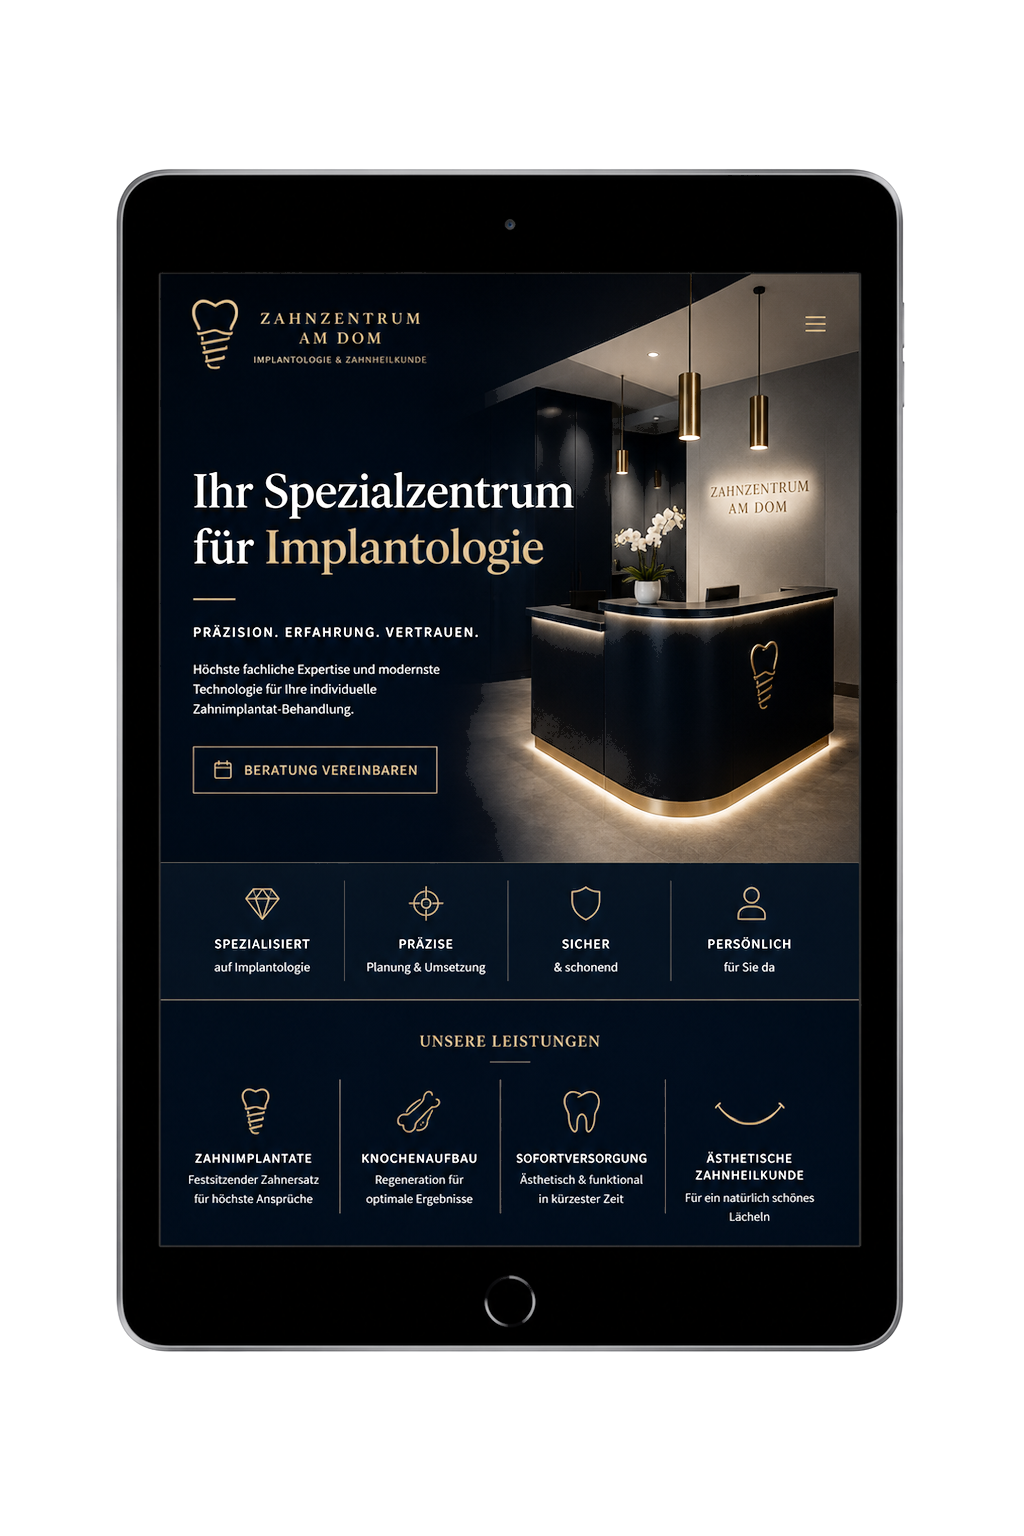
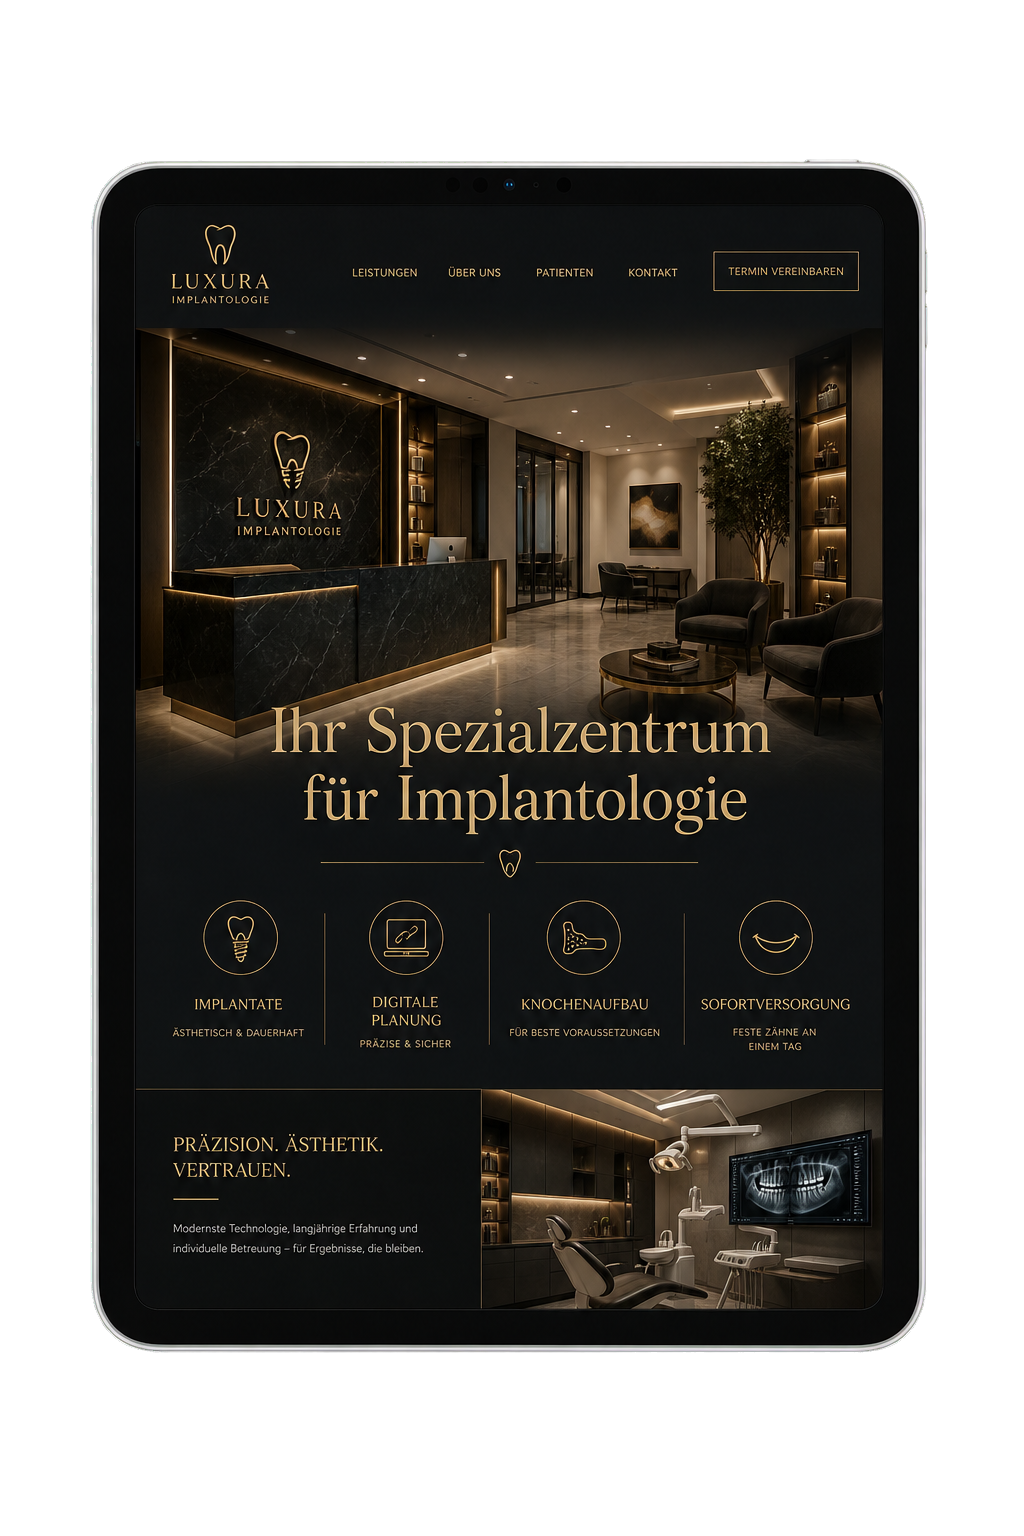
feat: add 3-device hero, team section, testimonials, case slider + new iPad mockups
- Hero: laptop + tablet + phone device layout
- Team: 6 members with Unser Team heading
- Testimonials: updated 4 attribution names/locations
- Beispiele: autoplay 3-slide case slider with benefits
- iPad images: AI-generated with transparent backgrounds

Changed region(s): [[0.0625, 0.0938, 0.9062, 0.9062], [0.5312, 0.1562, 0.5625, 0.1875]]

diff --git a/index.html b/index.html
@@ -97,6 +97,36 @@
     .sw-team-placeholder{background:var(--green-soft);display:block;}
     .sw-team-card strong{font-size:15px;font-weight:700;color:var(--ink);display:block;}
     .sw-team-card span{font-size:13px;color:var(--muted);}
+    /* ===== HERO TABLET DEVICE ===== */
+    .device-tablet{position:absolute;right:-6%;bottom:-10%;width:36%;border:8px solid #0b1220;border-radius:20px;background:#0b1220;box-shadow:0 30px 54px -22px rgba(2,6,23,.55);z-index:2;}
+    .device-tablet .screen{display:block;width:100%;height:auto;border-radius:12px;}
+    @media(max-width:560px){.device-tablet{right:-4%;width:38%;}}
+    /* ===== CASE SLIDER ===== */
+    .case-slider{position:relative;overflow:hidden;border-radius:24px;background:var(--card);border:1px solid var(--line);}
+    .case-track{display:flex;transition:transform .5s cubic-bezier(.22,1,.36,1);}
+    .case-slide{min-width:100%;display:grid;grid-template-columns:1fr 1fr;gap:48px;align-items:center;padding:48px;}
+    @media(max-width:820px){.case-slide{grid-template-columns:1fr;padding:32px 24px;}}
+    .case-slide-img{position:relative;aspect-ratio:4/3;overflow:visible;}
+    .case-slide-img .device-laptop{max-width:88%;}
+    .case-slide-img .device-phone{left:auto;right:-4%;bottom:-8%;width:28%;}
+    .case-slide-body{display:flex;flex-direction:column;gap:18px;}
+    .case-slide-body h3{font-size:22px;font-weight:700;color:var(--ink);margin:0;}
+    .case-detail{display:flex;gap:14px;align-items:flex-start;}
+    .case-detail-icon{width:40px;height:40px;flex-shrink:0;display:flex;align-items:center;justify-content:center;background:var(--green-soft);border-radius:12px;color:var(--green);}
+    .case-detail-icon svg{width:20px;height:20px;}
+    .case-detail div b{display:block;font-size:14px;font-weight:700;color:var(--ink);margin-bottom:2px;}
+    .case-detail div p{font-size:13.5px;line-height:1.6;color:var(--ink-2);margin:0;}
+    .case-dots{display:flex;justify-content:center;gap:10px;margin-top:32px;}
+    .case-dot{width:10px;height:10px;border-radius:50%;background:var(--line);border:none;cursor:pointer;transition:background .3s,transform .3s;padding:0;}
+    .case-dot.active{background:var(--green);transform:scale(1.25);}
+    .case-benefits{display:grid;grid-template-columns:repeat(3,1fr);gap:20px;margin-top:36px;}
+    @media(max-width:680px){.case-benefits{grid-template-columns:1fr;}}
+    .case-benefit{display:flex;align-items:flex-start;gap:14px;padding:20px;background:var(--card);border:1px solid var(--line);border-radius:16px;}
+    .case-benefit-icon{width:44px;height:44px;flex-shrink:0;display:flex;align-items:center;justify-content:center;background:var(--green-soft);border-radius:12px;color:var(--green);}
+    .case-benefit-icon svg{width:22px;height:22px;}
+    .case-benefit div h4{font-size:15px;font-weight:700;color:var(--ink);margin:0 0 4px;}
+    .case-benefit div p{font-size:13px;color:var(--muted);margin:0;line-height:1.5;}
+    .case-note{text-align:center;font-size:13px;color:var(--muted);margin-top:24px;font-style:italic;}
 </style>
   <meta name="robots" content="index, follow, max-image-preview:large, max-snippet:-1, max-video-preview:-1" />
   <script type="application/ld+json">
@@ -256,6 +286,7 @@
             <div class="mockup-wrap">
               <div class="mockup" aria-label="Beispiel einer Praxis-Website">
                 <div class="device-laptop"><img class="screen" src="assets/shot-laptop.png" alt="Beispiel Praxis-Website auf dem Laptop" width="1600" height="1000" loading="lazy" decoding="async" /></div>
+                <div class="device-tablet"><img class="screen" src="assets/shot-laptop.png" alt="Beispiel Praxis-Website auf dem Tablet" width="1600" height="1000" loading="lazy" decoding="async" /></div>
                 <div class="device-phone"><img class="screen" src="assets/shot-phone.png" alt="Beispiel Praxis-Website auf dem Smartphone" width="430" height="932" loading="lazy" decoding="async" /></div>
               </div>
             </div>
@@ -455,47 +486,131 @@
       </div>
     </section>
 
-    <!-- ============ CASE / BEISPIEL ============ -->
+    <!-- ============ CASE / BEISPIEL (SLIDER) ============ -->
     <section class="section white-bg" id="beispiel" data-screen-label="07 Beispiel">
       <div class="container">
         <div class="section-head">
-          <span class="eyebrow reveal">Beispiele</span>
-          <h2 class="h-section reveal d1">Wie eine starke Website Zahnarztpraxen unterstützt</h2>
+          <span class="eyebrow reveal">Fiktives Beispiel</span>
+          <h2 class="h-section reveal d1">Wie eine moderne Website Zahnarztpraxen unterstützt</h2>
+          <p class="lead reveal d2">Praxisnahes Konzeptbeispiel &#8212; mit klarer Positionierung, schöner Website und realistischer Struktur.</p>
         </div>
 
-        <div class="case-card reveal d2">
-          <div class="case-head">
-            <div>
-              <span class="case-tag">Beispiel · Schwerpunkt Implantologie</span>
-              <h3>Zahnarztpraxis mit Schwerpunkt Implantologie</h3>
-              <div class="case-row">
-                <p><b>Ausgangssituation:</b> Website seit mehreren Jahren unverändert, kaum Struktur — wichtige Leistungen gingen im Gesamtbild unter.</p>
-                <p><b>Ziel:</b> Moderner Auftritt, klare Darstellung der Schwerpunkte und Entlastung des Teams bei Standardfragen.</p>
+        <div class="case-slider reveal d2" id="caseSlider">
+          <div class="case-track" id="caseTrack">
+
+            <!-- Slide 1: Implantologie -->
+            <div class="case-slide">
+              <div class="case-slide-img">
+                <div class="device-laptop"><img class="screen" src="assets/shot-laptop.png" alt="Implantologie Praxis-Website" width="1600" height="1000" loading="lazy" decoding="async" /></div>
+                <div class="device-phone"><img class="screen" src="assets/shot-phone.png" alt="Implantologie mobil" width="430" height="932" loading="lazy" decoding="async" /></div>
+              </div>
+              <div class="case-slide-body">
+                <h3>Schwerpunkt Implantologie</h3>
+                <div class="case-detail">
+                  <div class="case-detail-icon"><svg viewBox="0 0 24 24" fill="none" stroke="currentColor" stroke-width="2" stroke-linecap="round" stroke-linejoin="round"><circle cx="11" cy="11" r="8"/><path d="m21 21-4.3-4.3"/></svg></div>
+                  <div><b>Ausgangssituation:</b><p>Die bisherige Website wirkte veraltet, wichtige Leistungen wurden nicht klar dargestellt und häufige Rückfragen belasteten das Team.</p></div>
+                </div>
+                <div class="case-detail">
+                  <div class="case-detail-icon"><svg viewBox="0 0 24 24" fill="none" stroke="currentColor" stroke-width="2" stroke-linecap="round" stroke-linejoin="round"><circle cx="12" cy="12" r="10"/><circle cx="12" cy="12" r="6"/><circle cx="12" cy="12" r="2"/></svg></div>
+                  <div><b>Ziel:</b><p>Ein moderner Auftritt mit klarem Schwerpunkt, verständlicher Struktur und spürbarer Entlastung im Praxisalltag.</p></div>
+                </div>
+                <div class="case-detail">
+                  <div class="case-detail-icon"><svg viewBox="0 0 24 24" fill="none" stroke="currentColor" stroke-width="2" stroke-linecap="round" stroke-linejoin="round"><rect x="3" y="3" width="18" height="18" rx="2"/><path d="M3 9h18"/><path d="M9 21V9"/></svg></div>
+                  <div><b>Umsetzung:</b><p>Neue Startseite, übersichtliche Unterseiten für alle Leistungen, klare Patientenführung und leicht auffindbare Kontaktmöglichkeiten.</p></div>
+                </div>
+                <div class="case-detail">
+                  <div class="case-detail-icon"><svg viewBox="0 0 24 24" fill="none" stroke="currentColor" stroke-width="2" stroke-linecap="round" stroke-linejoin="round"><path d="M22 11.08V12a10 10 0 1 1-5.93-9.14"/><polyline points="22 4 12 14.01 9 11.01"/></svg></div>
+                  <div><b>Ergebnis:</b><p>Stärkerer professioneller Eindruck, bessere Kommunikation der Leistungen und weniger wiederkehrende Rückfragen.</p></div>
+                </div>
+                <a href="#kontakt" class="btn" style="align-self:flex-start;margin-top:8px;"><span class="btn-label">Erstgespräch sichern</span>
+                  <svg viewBox="0 0 24 24" fill="none" stroke="currentColor" stroke-width="2.2" stroke-linecap="round" stroke-linejoin="round"><path d="M5 12h14M13 5l7 7-7 7"></path></svg>
+                </a>
               </div>
             </div>
-            <div class="case-row">
-              <p><b>Umsetzung mit Seitenwerk.de:</b> Neue Startseite, Unterseiten für die Hauptleistungen, strukturierte Infos zu Abläufen, Anfahrt und Besonderheiten.</p>
-              <p><b>Ergebnis:</b> Deutlich professionellerer Außenauftritt, mehr passende Anfragen für die gewünschten Schwerpunkte und weniger Rückfragen am Telefon.</p>
-              <a href="#kontakt" class="btn mt-cta"><span class="btn-label">Erstgespräch sichern</span>
-                <svg viewBox="0 0 24 24" fill="none" stroke="currentColor" stroke-width="2.2" stroke-linecap="round" stroke-linejoin="round"><path d="M5 12h14M13 5l7 7-7 7"></path></svg>
-              </a>
+
+            <!-- Slide 2: Prophylaxe -->
+            <div class="case-slide">
+              <div class="case-slide-img">
+                <div class="device-laptop"><img class="screen" src="assets/shot-laptop.png" alt="Prophylaxe Praxis-Website" width="1600" height="1000" loading="lazy" decoding="async" /></div>
+                <div class="device-phone"><img class="screen" src="assets/shot-phone.png" alt="Prophylaxe mobil" width="430" height="932" loading="lazy" decoding="async" /></div>
+              </div>
+              <div class="case-slide-body">
+                <h3>Schwerpunkt Prophylaxe</h3>
+                <div class="case-detail">
+                  <div class="case-detail-icon"><svg viewBox="0 0 24 24" fill="none" stroke="currentColor" stroke-width="2" stroke-linecap="round" stroke-linejoin="round"><circle cx="11" cy="11" r="8"/><path d="m21 21-4.3-4.3"/></svg></div>
+                  <div><b>Ausgangssituation:</b><p>Prophylaxe-Leistungen waren online kaum sichtbar — Patienten wussten nicht, welche Angebote die Praxis bereithält.</p></div>
+                </div>
+                <div class="case-detail">
+                  <div class="case-detail-icon"><svg viewBox="0 0 24 24" fill="none" stroke="currentColor" stroke-width="2" stroke-linecap="round" stroke-linejoin="round"><circle cx="12" cy="12" r="10"/><circle cx="12" cy="12" r="6"/><circle cx="12" cy="12" r="2"/></svg></div>
+                  <div><b>Ziel:</b><p>Prophylaxe als eigenständigen Schwerpunkt positionieren und gezielt Patienten ansprechen, die Wert auf Vorsorge legen.</p></div>
+                </div>
+                <div class="case-detail">
+                  <div class="case-detail-icon"><svg viewBox="0 0 24 24" fill="none" stroke="currentColor" stroke-width="2" stroke-linecap="round" stroke-linejoin="round"><rect x="3" y="3" width="18" height="18" rx="2"/><path d="M3 9h18"/><path d="M9 21V9"/></svg></div>
+                  <div><b>Umsetzung:</b><p>Eigene Unterseite für Prophylaxe, klare Patienteninformationen zu Ablauf und Kosten, Online-Terminbuchung für Vorsorge.</p></div>
+                </div>
+                <div class="case-detail">
+                  <div class="case-detail-icon"><svg viewBox="0 0 24 24" fill="none" stroke="currentColor" stroke-width="2" stroke-linecap="round" stroke-linejoin="round"><path d="M22 11.08V12a10 10 0 1 1-5.93-9.14"/><polyline points="22 4 12 14.01 9 11.01"/></svg></div>
+                  <div><b>Ergebnis:</b><p>Mehr gezielte Anfragen für Prophylaxe-Termine, weniger Erklärungsbedarf am Telefon und bessere Auslastung.</p></div>
+                </div>
+                <a href="#kontakt" class="btn" style="align-self:flex-start;margin-top:8px;"><span class="btn-label">Erstgespräch sichern</span>
+                  <svg viewBox="0 0 24 24" fill="none" stroke="currentColor" stroke-width="2.2" stroke-linecap="round" stroke-linejoin="round"><path d="M5 12h14M13 5l7 7-7 7"></path></svg>
+                </a>
+              </div>
             </div>
+
+            <!-- Slide 3: Ästhetische Zahnmedizin -->
+            <div class="case-slide">
+              <div class="case-slide-img">
+                <div class="device-laptop"><img class="screen" src="assets/shot-laptop.png" alt="Ästhetik Praxis-Website" width="1600" height="1000" loading="lazy" decoding="async" /></div>
+                <div class="device-phone"><img class="screen" src="assets/shot-phone.png" alt="Ästhetik mobil" width="430" height="932" loading="lazy" decoding="async" /></div>
+              </div>
+              <div class="case-slide-body">
+                <h3>Ästhetische Zahnmedizin</h3>
+                <div class="case-detail">
+                  <div class="case-detail-icon"><svg viewBox="0 0 24 24" fill="none" stroke="currentColor" stroke-width="2" stroke-linecap="round" stroke-linejoin="round"><circle cx="11" cy="11" r="8"/><path d="m21 21-4.3-4.3"/></svg></div>
+                  <div><b>Ausgangssituation:</b><p>Ästhetische Leistungen gingen im Gesamtangebot unter — die Praxis wurde nicht als Premium-Anbieter wahrgenommen.</p></div>
+                </div>
+                <div class="case-detail">
+                  <div class="case-detail-icon"><svg viewBox="0 0 24 24" fill="none" stroke="currentColor" stroke-width="2" stroke-linecap="round" stroke-linejoin="round"><circle cx="12" cy="12" r="10"/><circle cx="12" cy="12" r="6"/><circle cx="12" cy="12" r="2"/></svg></div>
+                  <div><b>Ziel:</b><p>Premium-Positionierung im Bereich ästhetische Zahnmedizin mit visuellem Anspruch und klarer Patientenansprache.</p></div>
+                </div>
+                <div class="case-detail">
+                  <div class="case-detail-icon"><svg viewBox="0 0 24 24" fill="none" stroke="currentColor" stroke-width="2" stroke-linecap="round" stroke-linejoin="round"><rect x="3" y="3" width="18" height="18" rx="2"/><path d="M3 9h18"/><path d="M9 21V9"/></svg></div>
+                  <div><b>Umsetzung:</b><p>Visuell hochwertiges Design, Vorher-Nachher-Bildsprache, eigene Seiten für Veneers, Bleaching und Smile-Design.</p></div>
+                </div>
+                <div class="case-detail">
+                  <div class="case-detail-icon"><svg viewBox="0 0 24 24" fill="none" stroke="currentColor" stroke-width="2" stroke-linecap="round" stroke-linejoin="round"><path d="M22 11.08V12a10 10 0 1 1-5.93-9.14"/><polyline points="22 4 12 14.01 9 11.01"/></svg></div>
+                  <div><b>Ergebnis:</b><p>Deutlich höhere Wahrnehmung als Premium-Anbieter, mehr Anfragen für hochwertige ästhetische Behandlungen.</p></div>
+                </div>
+                <a href="#kontakt" class="btn" style="align-self:flex-start;margin-top:8px;"><span class="btn-label">Erstgespräch sichern</span>
+                  <svg viewBox="0 0 24 24" fill="none" stroke="currentColor" stroke-width="2.2" stroke-linecap="round" stroke-linejoin="round"><path d="M5 12h14M13 5l7 7-7 7"></path></svg>
+                </a>
+              </div>
+            </div>
+
           </div>
-          <div class="case-stats">
-            <div class="case-stat">
-              <div class="case-stat-v">+64%</div>
-              <div class="case-stat-l">Passende Anfragen</div>
-            </div>
-            <div class="case-stat">
-              <div class="case-stat-v">−42%</div>
-              <div class="case-stat-l">Telefon-Rückfragen</div>
-            </div>
-            <div class="case-stat">
-              <div class="case-stat-v">4,9★</div>
-              <div class="case-stat-l">Patienten-Bewertung</div>
-            </div>
+          <div class="case-dots" id="caseDots">
+            <button class="case-dot active" aria-label="Slide 1"></button>
+            <button class="case-dot" aria-label="Slide 2"></button>
+            <button class="case-dot" aria-label="Slide 3"></button>
           </div>
         </div>
+
+        <div class="case-benefits reveal d3">
+          <div class="case-benefit">
+            <div class="case-benefit-icon"><svg viewBox="0 0 24 24" fill="none" stroke="currentColor" stroke-width="2" stroke-linecap="round" stroke-linejoin="round"><circle cx="12" cy="12" r="10"/><circle cx="12" cy="12" r="6"/><circle cx="12" cy="12" r="2"/></svg></div>
+            <div><h4>Klarere Positionierung</h4><p>Ihr Leistungsspektrum und Spezialisierungen sind auf den ersten Blick verständlich.</p></div>
+          </div>
+          <div class="case-benefit">
+            <div class="case-benefit-icon"><svg viewBox="0 0 24 24" fill="none" stroke="currentColor" stroke-width="2" stroke-linecap="round" stroke-linejoin="round"><path d="M21 15a2 2 0 0 1-2 2H7l-4 4V5a2 2 0 0 1 2-2h14a2 2 0 0 1 2 2z"/></svg></div>
+            <div><h4>Weniger Standardfragen</h4><p>Patienten finden Antworten bereits online — das entlastet Ihr Team spürbar.</p></div>
+          </div>
+          <div class="case-benefit">
+            <div class="case-benefit-icon"><svg viewBox="0 0 24 24" fill="none" stroke="currentColor" stroke-width="2" stroke-linecap="round" stroke-linejoin="round"><path d="M22 11.08V12a10 10 0 1 1-5.93-9.14"/><polyline points="22 4 12 14.01 9 11.01"/></svg></div>
+            <div><h4>Professioneller Außenauftritt</h4><p>Ein moderner Webauftritt stärkt Vertrauen und Ihre Praxis als Marke.</p></div>
+          </div>
+        </div>
+        <p class="case-note reveal d4">Konzeptionelles Mockup &#8212; keine reale Kundenreferenz.</p>
       </div>
     </section>
 
@@ -580,6 +695,9 @@
     <!-- ============ TEAM ============ -->
     <section class="section" id="team" style="padding-top:0;padding-bottom:56px;" data-screen-label="08c Team">
       <div class="container">
+        <div class="section-head" style="margin-bottom:36px;">
+          <h2 class="h-section reveal d1">Unser Team</h2>
+        </div>
         <div class="sw-team-grid">
           <div class="sw-team-card">
             <img src="assets/founder.png" alt="Thomas Stübinger" width="160" height="160" loading="lazy" decoding="async" class="sw-team-photo" />
@@ -589,12 +707,27 @@
           <div class="sw-team-card">
             <img src="https://cdn.prod.website-files.com/649413ec23c5269e2fb03294/658183b74d341b8e9974a1a5_Marco%20Niedermeier.png" alt="Marco Niedermeier" width="160" height="160" loading="lazy" decoding="async" class="sw-team-photo" />
             <strong>Marco Niedermeier</strong>
-            <span>Account Manager</span>
+            <span>Consultant</span>
           </div>
           <div class="sw-team-card">
             <div class="sw-team-photo sw-team-placeholder"></div>
             <strong>Hoa</strong>
-            <span>[Rolle]</span>
+            <span>Consultant</span>
+          </div>
+          <div class="sw-team-card">
+            <div class="sw-team-photo sw-team-placeholder"></div>
+            <strong>John</strong>
+            <span>Developer</span>
+          </div>
+          <div class="sw-team-card">
+            <div class="sw-team-photo sw-team-placeholder"></div>
+            <strong>Manuel</strong>
+            <span>Developer</span>
+          </div>
+          <div class="sw-team-card">
+            <div class="sw-team-photo sw-team-placeholder"></div>
+            <strong>Anna</strong>
+            <span>Designer</span>
           </div>
         </div>
       </div>
@@ -613,7 +746,7 @@
             <blockquote class="testi-quote">&#8222;Seit dem Launch haben wir deutlich mehr qualifizierte Anfragen. Thomas hat unsere Praxis wirklich verstanden und eine Website gebaut, die Vertrauen weckt &#8212; noch bevor ein Patient den H&#246;rer abnimmt.&#8220;</blockquote>
                         <div class="testi-person">
               <div style="width:46px;height:46px;border-radius:50%;background:var(--line);flex-shrink:0;"></div>
-              <div><strong>Zahnarzt</strong><span>München</span></div>
+              <div><strong>Praxisinhaber</strong><span>München</span></div>
             </div>
           </article>
           <article class="testi-card reveal d2">
@@ -621,7 +754,7 @@
             <blockquote class="testi-quote">&#8222;Endlich eine Website, die wirklich zu unserem Anspruch passt. Schnelle Umsetzung, tolle Texte und ein Design, f&#252;r das wir t&#228;glich Komplimente bekommen.&#8220;</blockquote>
                         <div class="testi-person">
               <div style="width:46px;height:46px;border-radius:50%;background:var(--line);flex-shrink:0;"></div>
-              <div><strong>Zahnspezialist</strong><span>Hamburg</span></div>
+              <div><strong>Zahnärztliche Praxisleitung</strong><span>Süddeutschland</span></div>
             </div>
           </article>
           <article class="testi-card reveal d3">
@@ -629,7 +762,7 @@
             <blockquote class="testi-quote">&#8222;Von der ersten Beratung bis zum Go-live war alles reibungslos. Innerhalb von 3 Wochen online &#8212; genau so, wie ich es mir vorgestellt habe.&#8220;</blockquote>
                         <div class="testi-person">
               <div style="width:46px;height:46px;border-radius:50%;background:var(--line);flex-shrink:0;"></div>
-              <div><strong>Dental Zentrum</strong><span>Nürnberg</span></div>
+              <div><strong>Dentalzentrum</strong><span>Niedersachsen</span></div>
             </div>
           </article>
           <article class="testi-card reveal d4">
@@ -637,7 +770,7 @@
             <blockquote class="testi-quote">&#8222;Thomas hat mitgedacht, mitgemacht und am Ende ein Ergebnis geliefert, das uns begeistert. Unsere Patienten sprechen uns aktiv auf die neue Website an.&#8220;</blockquote>
                         <div class="testi-person">
               <div style="width:46px;height:46px;border-radius:50%;background:var(--line);flex-shrink:0;"></div>
-              <div><strong>Orthopäde</strong><span>Nienburg</span></div>
+              <div><strong>Kieferorthopädische Praxis</strong><span>Großraum Hamburg</span></div>
             </div>
           </article>
         </div>
@@ -777,6 +910,21 @@
     const revs = [...document.querySelectorAll('.reveal')];
     revs.forEach(el => io.observe(el));
     requestAnimationFrame(() => { revs.forEach(el => { if (el.getBoundingClientRect().top < innerHeight * 0.95) el.classList.add('in'); }); });
+
+    // Case slider autoplay
+    const caseTrack = document.getElementById('caseTrack');
+    const caseDots = document.querySelectorAll('.case-dot');
+    if (caseTrack && caseDots.length) {
+      let cur = 0;
+      const total = caseDots.length;
+      function goSlide(i) {
+        cur = ((i % total) + total) % total;
+        caseTrack.style.transform = 'translateX(-' + (cur * 100) + '%)';
+        caseDots.forEach((d, idx) => d.classList.toggle('active', idx === cur));
+      }
+      caseDots.forEach((d, i) => d.addEventListener('click', () => { goSlide(i); clearInterval(autoId); autoId = setInterval(() => goSlide(cur + 1), 5000); }));
+      let autoId = setInterval(() => goSlide(cur + 1), 5000);
+    }
 
     const items = document.querySelectorAll('.faq-item');
     items.forEach(it => it.addEventListener('toggle', () => { if (it.open) items.forEach(o => { if (o !== it) o.open = false; }); }));
